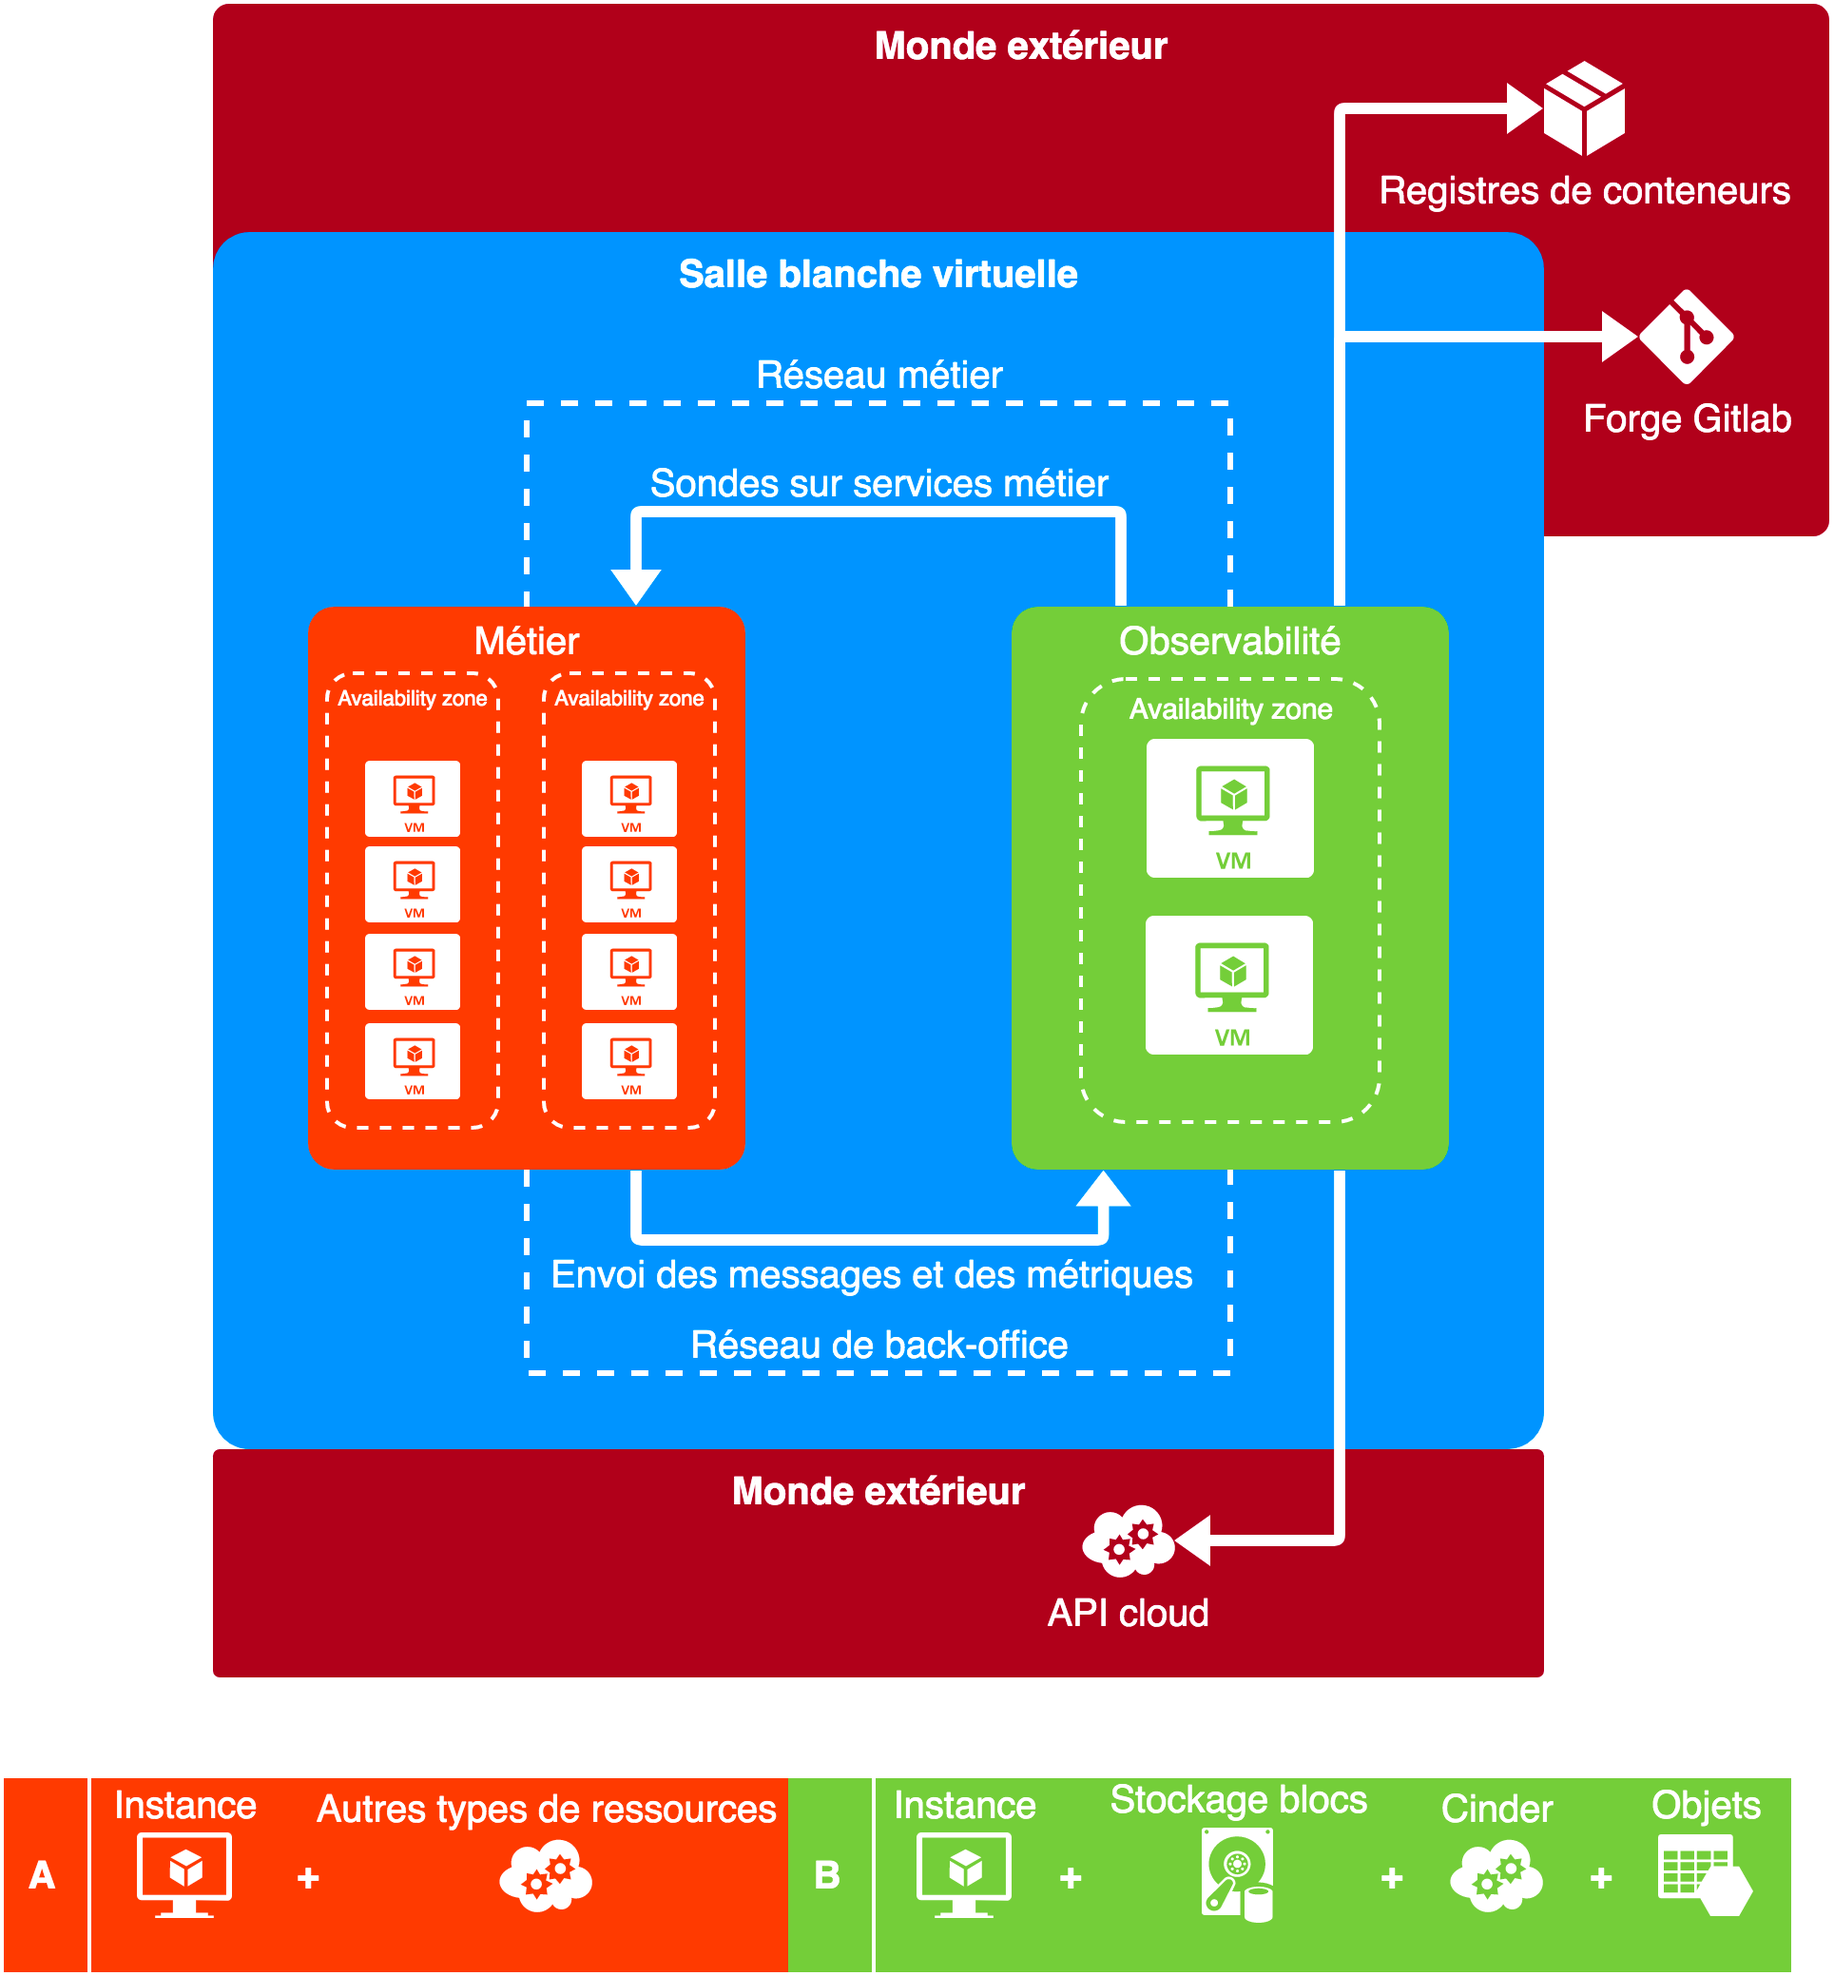
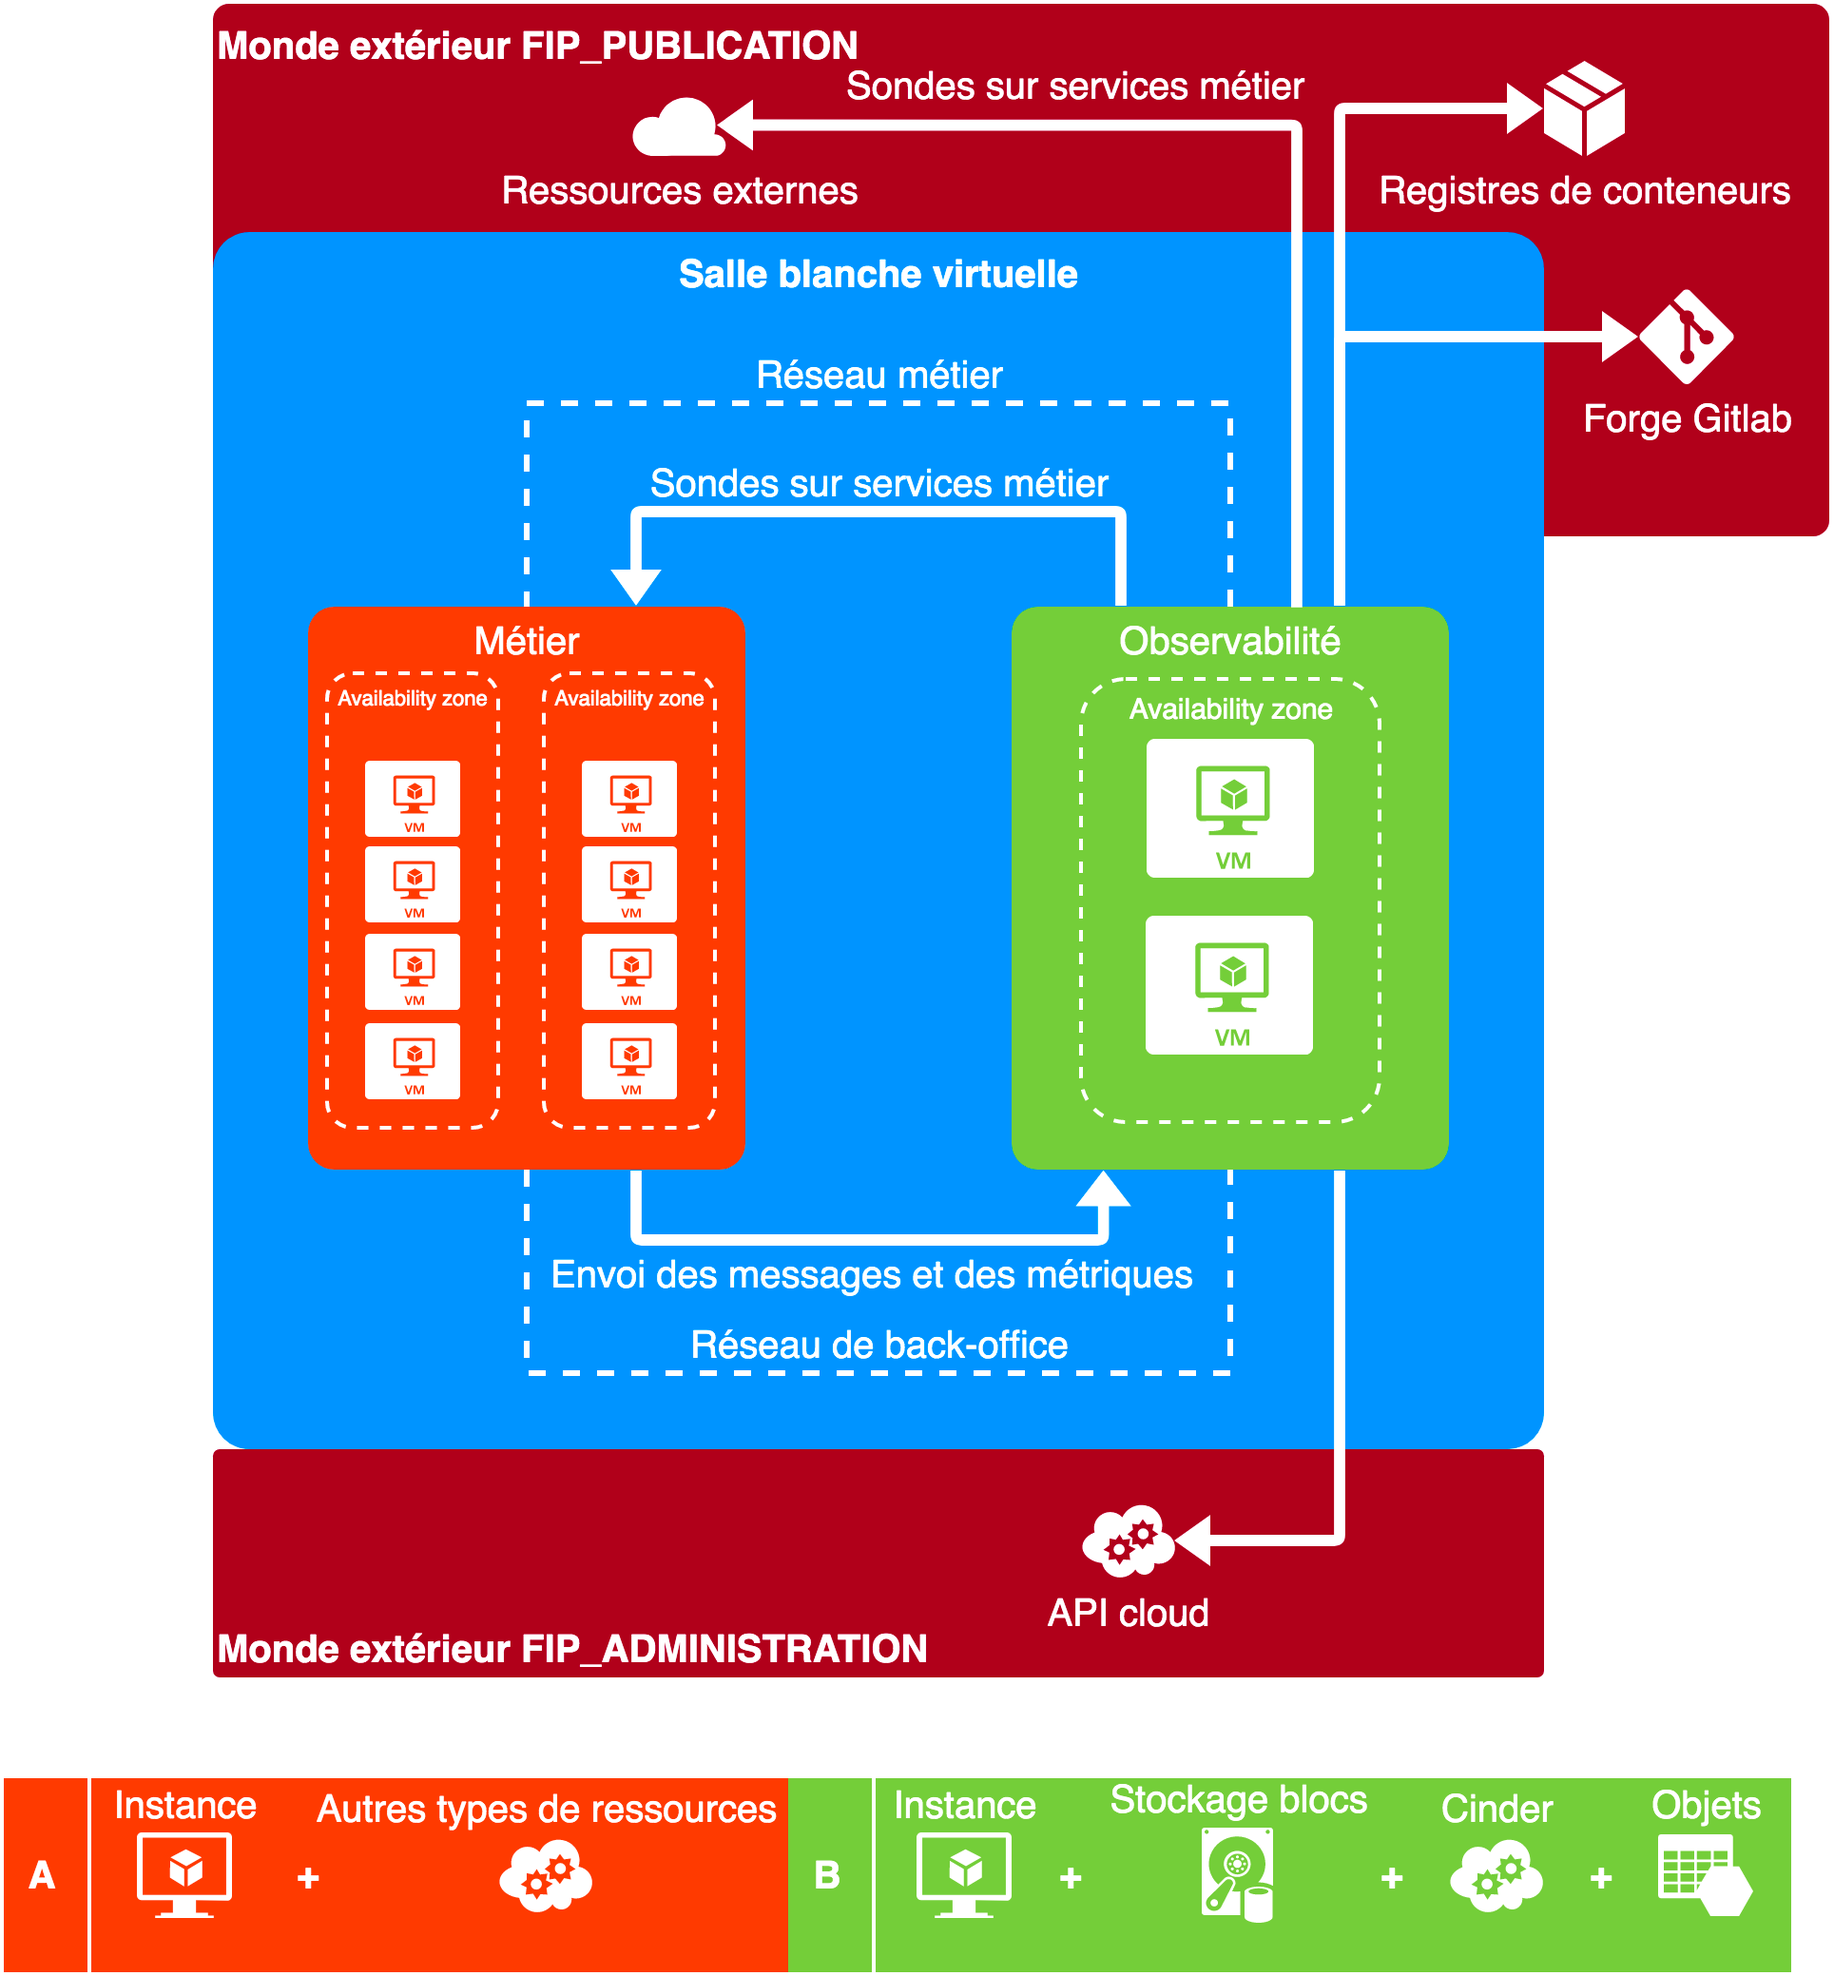
[docs] description des briques et déploiements

Changed region(s): [[0.1244, 0.0, 0.7154, 0.308], [0.1244, 0.8008, 0.4977, 0.8624], [0.4044, 0.7392, 0.5599, 0.77]]

diff --git a/docs/architecture_applicative.md b/docs/architecture_applicative.md
@@ -2,7 +2,47 @@
 
 ## Schéma fonctionnel
 
+Deux cas d'utilisation sont proposés : un déploiement dédié à un projet et un 
+autre mutualisé.
+
+Dans le premier cas, les appliances d'observabilité sont installées dans le même
+espace projet que les ressources métier. Cette approche n'est pas ètrs 
+efficiente en terme de consommation de ressources. En effet, plusieurs freins 
+apparaissent :
+
+* la surconsommation des ressources : les projets n'ont pas une taille critique 
+nécessitant des outils dédiés. La réservation de puissance et d'espace mémoire 
+n'est donc pas optimal et ne participe pas à l'approche éco-responsable et 
+économique ;
+
+* la multiplication des outils d'exploitation : la décentralisation des outils 
+d'exploitation permet de répartir les efforts et les contraintes sur plusieurs 
+systèmes. À cet effet, un juste milieu doit être trouvé entre le pure 
+centralisé et le complètement dédié. Il est donc possible de déployer les 
+services clés-en-main par équipe d'exploitation mutualisée, par exemple :
+
+  * par ESI d'exploitation ;
+  * par bureau de développement ;
+  * par domaine métier (cf. plan d'occupation des sols).
+
+### Déploiement dédié
+
+Les services d'observabilité sont déployés dans la salle blanche virtuelle de 
+l'application à exploiter. Le réseau où transittent les données métier n'est 
+pas utilisé pour communiquer avec les appliances mais seulement dans le cas où 
+il est nécessaire de surveiller des éléments extérieurs, des services métiers 
+ou récupérer des artéfacts. Quant à lui, le réseau de *back-office* est utilisé 
+afin de publier les services d'observabilité qui n'ont pas besoin d'être publiés
+au monde extérieur.
+
 ![Architecture applicative dédiée à un projet](./placement.png)
+
+### Déploiement mutualisé
+
+Les flux sont les mêmes que supra. L'endroit de l'installation diffère. Dans 
+cette configuration un espace projet mutualisé comprend tous les outils 
+d'exploitation qui servent à plusieurs projets sous la responsabilités d'une 
+même équipe.
 
 ![Architecture applicative mutualisée](./placement_mutu.png)
 
@@ -20,23 +60,33 @@ Fonctionnalités :
 * gestion des rétentions.
 
 ![Architecture interne](./briques.png)
-SCHEMA À MODIFIER
 
 Listes des logiciels utilisés avec leurs fonctions et la raison de leurs choix:
 
-- Graylog v3.1: il permet la récupération, la sauvegarde et la restauration des logs ;
-- Elasticsearch v5 ou 6: c'est un logiciel interne à graylog non visible par les utilisateurs ;
-- MongodDB v3.6 ou 4.0: c'est un logiciel interne à graylog non visible par les utilisateurs ;
-- Influxdb v2: Il permet la récupération, la sauvegarde et la restauration des métriques ;
-- Traefik v2:
-- Grafana v5.4:
-- Telegraf v2.6: Il permet l'envoie de métriques des applications n'ayant pas la fonction nativement;
-- Podman v1.7: Il est plus sécurisé et supporte REDHAT 8.
+- Graylog v3.1: il permet la récupération, la sauvegarde et la restauration des 
+logs ;
+- Elasticsearch v6: indexeur de messages. Il est interne à Graylog et n'est pas 
+visible par les utilisateurs ;
+- MongodDB v3.6 ou 4.0: base de documents NoSQL pour stocker la configuration de
+Graylog. Elle est interne à Graylog et n'est pas visible par les utilisateurs ;
+- Influxdb v2 : base de données de métriques, moteur de visualisation et 
+d'alertes de supervision ; 
+- Traefik v2 : service de publication des services Grafana et InfluxDB sur les 
+ports HTTP / HTTPS usuel ;
+- Grafana v6.4 : moteur de visualisation de métriques ;
+- Telegraf v1.4: collecteur de métriques à installer sur les machines. Il permet
+l'envoi des métriques systèmes et des applications n'ayant pas la fonction 
+d'envoi natif vers InfluxDB ;
+- Podman v1.7: moteur de conteneurs soutenu par Redhat. Il est plus sécurisé que
+le moteur Docker.
 
+La brique exécute des conteneurs. Ils sont hébergés sur le dépôt Nexus 
+infonuagique. Les mécanismes de sécurité sont intégrés à la solution Nexus.
 
-La brique exécute des conteneurs. Ces conteneurs à utiliser sont hébergés sur le Nexus interne du cloud. Il se repose sur le mécanisme de sécurité de Nexus.
-
-Notion d'application supportée? Concept à préciser et à illustrer d'exemples.
+Une application avec un support natif représente les piles technologiques 
+capables d'intéragir directement avec les outils d'observabilité : envoi 
+autonome de messages et de métriques. Il s'agit des composants construits 
+autour des cadriciels Spring (Java) et Drupal (PHP).
 
 ## Dimensionnement
 
